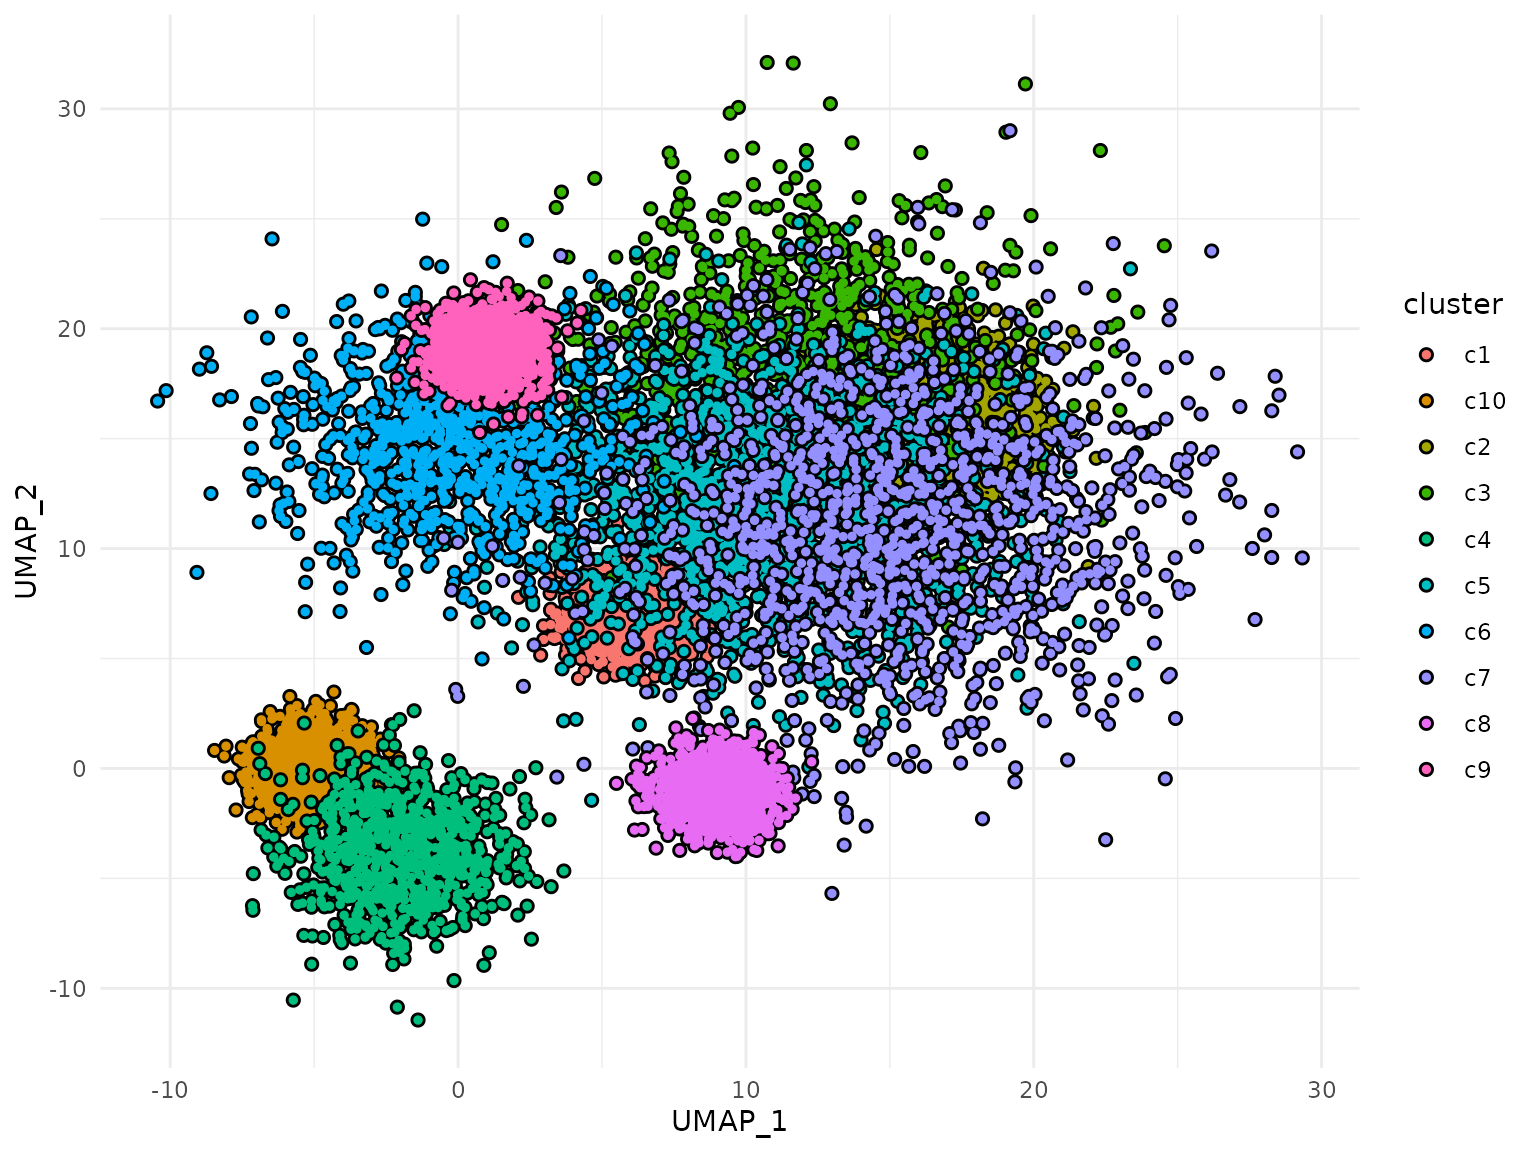
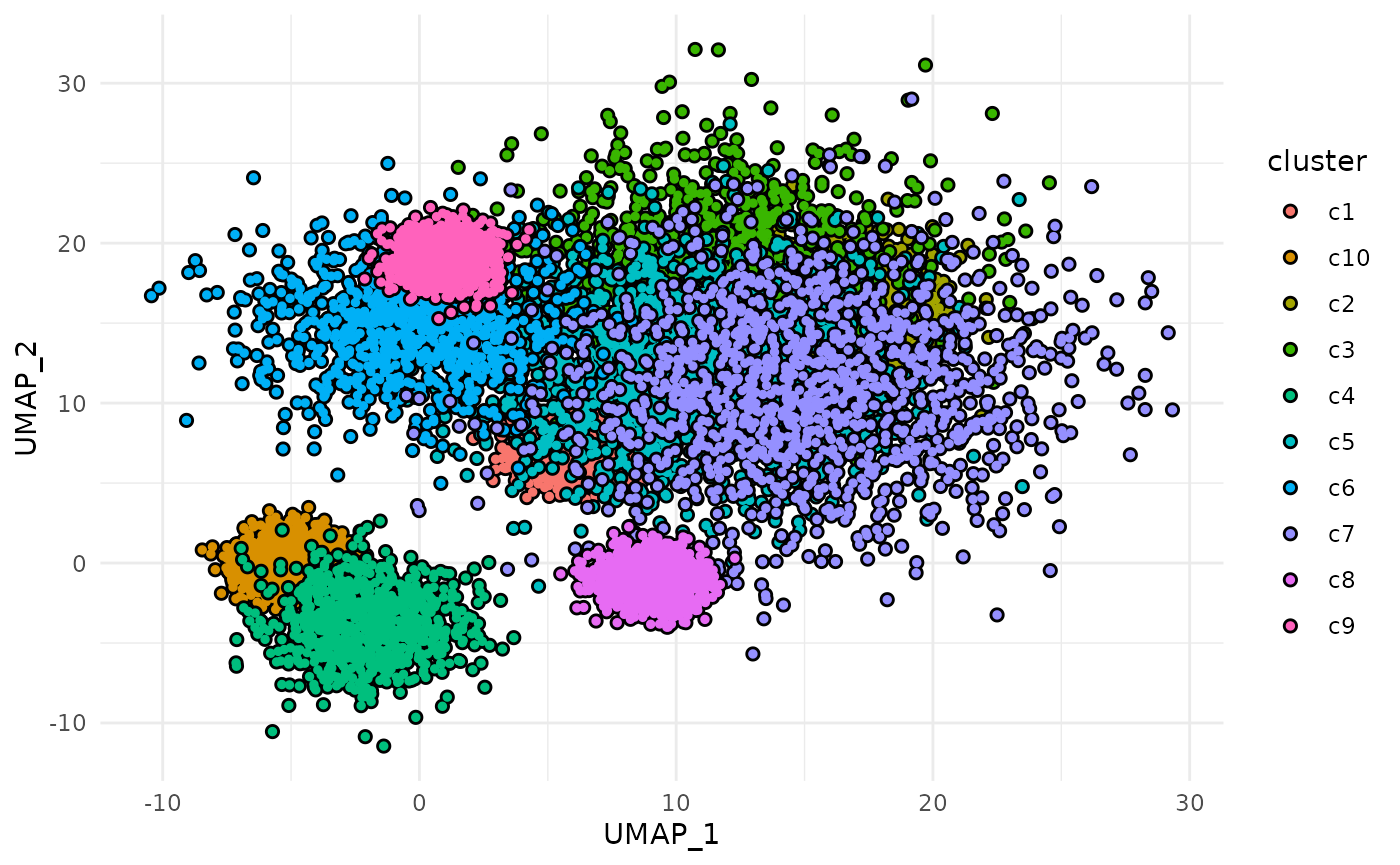
Built site for ggtrace: 0.0.0.9000@131c837

diff --git a/articles/geom-point-trace.html b/articles/geom-point-trace.html
@@ -104,7 +104,7 @@
     linetype <span class="op">=</span> <span class="fl">1</span>,
     alpha    <span class="op">=</span> <span class="fl">1</span>
   <span class="op">)</span></code></pre></div>
-<p><img src="geom-point-trace_files/figure-html/unnamed-chunk-1-1.png" width="768"></p>
+<p><img src="geom-point-trace_files/figure-html/unnamed-chunk-1-1.png" width="700"></p>
 <p><br></p>
 </div>
 <div id="aesthetics" class="section level2">
@@ -181,7 +181,7 @@
 <code class="sourceCode R"><span class="va">p</span> <span class="op">+</span>
   <span class="fu"><a href="../reference/geom_point_trace.html">geom_point_trace</a></span><span class="op">(</span>
     trace_position   <span class="op">=</span> <span class="va">signal</span> <span class="op">&lt;</span> <span class="fl">0</span>,
-    background_color <span class="op">=</span> <span class="st">"grey75"</span>
+    background_color <span class="op">=</span> <span class="st">"grey85"</span>
   <span class="op">)</span></code></pre></div>
 <p><img src="geom-point-trace_files/figure-html/unnamed-chunk-7-1.png" width="700"></p>
 <p><br></p>
